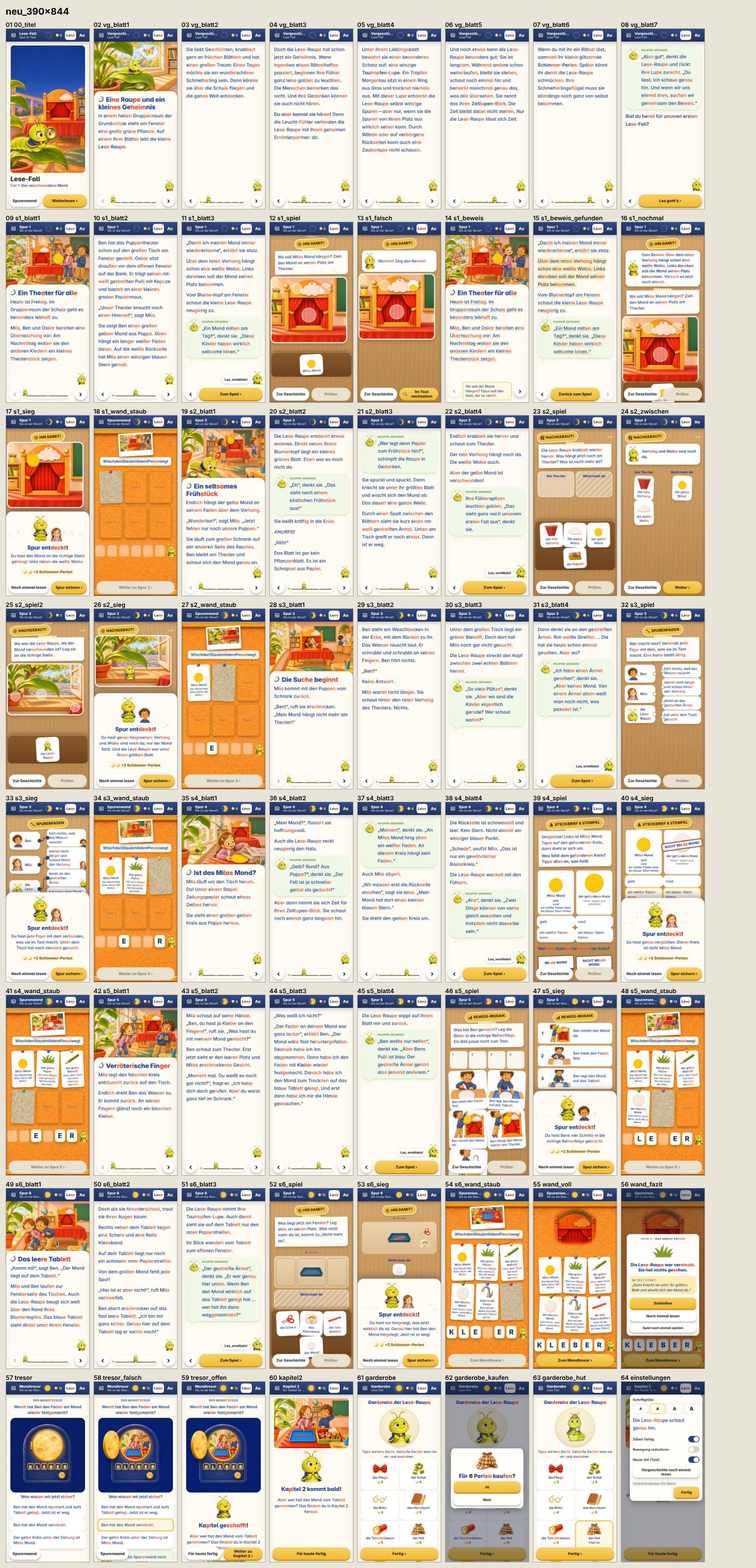
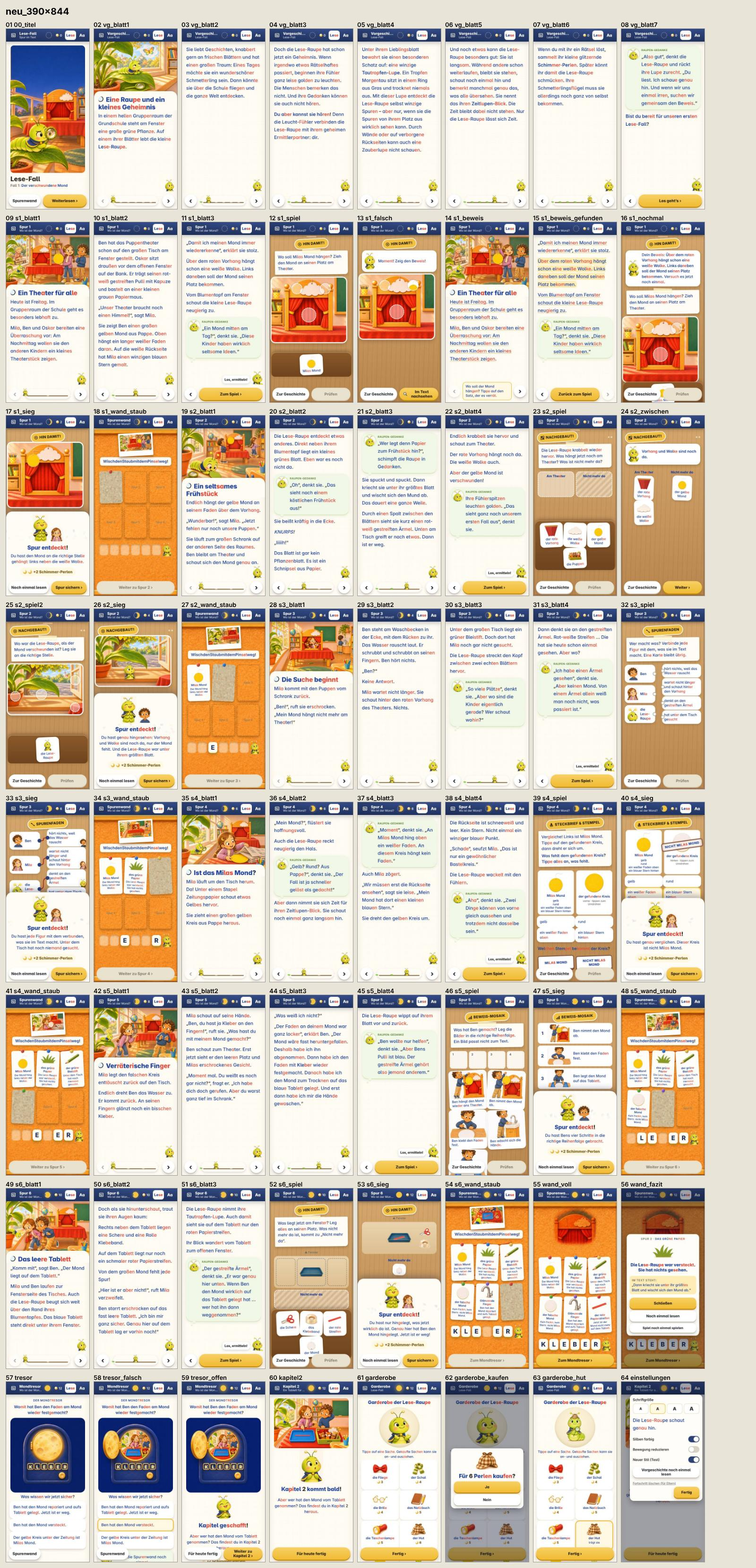
Layout-Prüfung abgeschlossen: Pinsel-Hinweis und Stempel im Bild, Bericht vorher/nachher
Claude-Session: https://claude.ai/code/session_01XbiCnECXMiu6RfpngsWtJQ

diff --git a/app/src/stil2.css b/app/src/stil2.css
@@ -281,3 +281,6 @@
 .stil2 .wort { gap: min(8px, 1.6vw); }
 .stil2 .wort span { width: min(48px, 11vw); height: min(58px, 13.3vw); font-size: min(32px, 7.5vw); }
 .stil2 .wand-figur { width: min(56px, 12vw); height: auto; }
+/* L11: Pinsel-Hinweis bricht um (display: table wuchs bei großer Schrift über den Rand); Stempel auf dem Fund bleibt im Bild */
+.stil2 .sheet[data-art="wand"] .pinsel-tipp { display: block; width: fit-content; max-width: 100%; }
+.stil2 .stamp-over { font-size: 13px; max-width: 96%; white-space: normal; text-align: center; }

diff --git a/app/LAYOUT_AUDIT.md b/app/LAYOUT_AUDIT.md
@@ -22,6 +22,27 @@
 | N2 | новый стиль, все игры | Бейдж игры «SPU REN FA DEN», «NACH GE BAUT !» — слоги разъехались | Каждый слог-`span` был отдельным элементом flex с отступом | Название обёрнуто одним элементом |
 | N3 | новый стиль, `s4_spiel` | Наклонённые карточки «что не хватает» наезжают на вопрос про печать | Наклон стикеров + нет отступа | Без наклона в этой сетке, отступ снизу |
 
+| L9 | новый стиль, `s6_spiel` на 360 px | «Ящик» с предметами прилипал к низу и **закрывал зону «Nicht mehr da»** — туда нельзя было нажать | `position: sticky` у лотка | Лоток больше не прилипает (он и так стоит внизу листа) |
+| L10 | новый стиль, Spurenwand на 360 px | Плитки слова + гусеничка шире экрана | 6 × 48 px + фигурка > 320 px | Плитки и фигурка уменьшаются по ширине экрана |
+| L11 | новый стиль, крупный шрифт; `s4_sieg` | Подсказка «Wisch den Staub…» в одну строку уходила за край; печать на круге выступала на 2 px | `display: table` без ограничения; длинная печать | Подсказка переносится; печать меньше и переносится |
+
+## Было → стало (замеры `befunde.json`)
+
+«Листы < 55 %» — листы чтения (кроме первого с картинкой), заполненные меньше чем на 55 %. «Мин.» — самый пустой лист.
+
+| Прогон | Экраны шире экрана | Кнопки за краем | Листы < 55 % | Мин. заполнение |
+|---|---|---|---|---|
+| старый 360×740 | 66 → **0** | 32 → **0** | 7 → 2 | 37 % → 46 % |
+| старый 360×740 крупный | 84 → **0** | 32 → **0** | 14 → 9 | 15 % → 23 % |
+| старый 390×844 | 19 → **0** | 0 | 5 → 2 | 31 % → 43 % |
+| старый 412×915 | 0 | 0 | 6 → 1 | 28 % → 48 % |
+| новый 360×740 | 70 → **0** | 59 → **0** | 7 → 2 | 34 % → 51 % |
+| новый 360×740 крупный | 87 → **0** | 74 → **0** | 11 → 7 | 8 % → 25 % |
+| новый 390×844 | 24 → **0** | 0 | 6 → 4 | 11 % → 38 % |
+| новый 412×915 | 6 → **0** | 0 | 4 → 1 | 26 % → 52 % |
+
+Оставшиеся полупустые листы — там, где один длинный абзац или «мысль гусенички» не помещается к соседнему (абзацы не делятся, D-06). Дальше улучшить можно только короче абзацами в тексте — это вопрос к переработке текста.
+
 ## Замечено, но не трогал (тексты и игры — ждут переработки)
 
 - Лист с одним длинным абзацем при самом крупном шрифте на 360 px может прокручиваться — так задумано (A-13).
